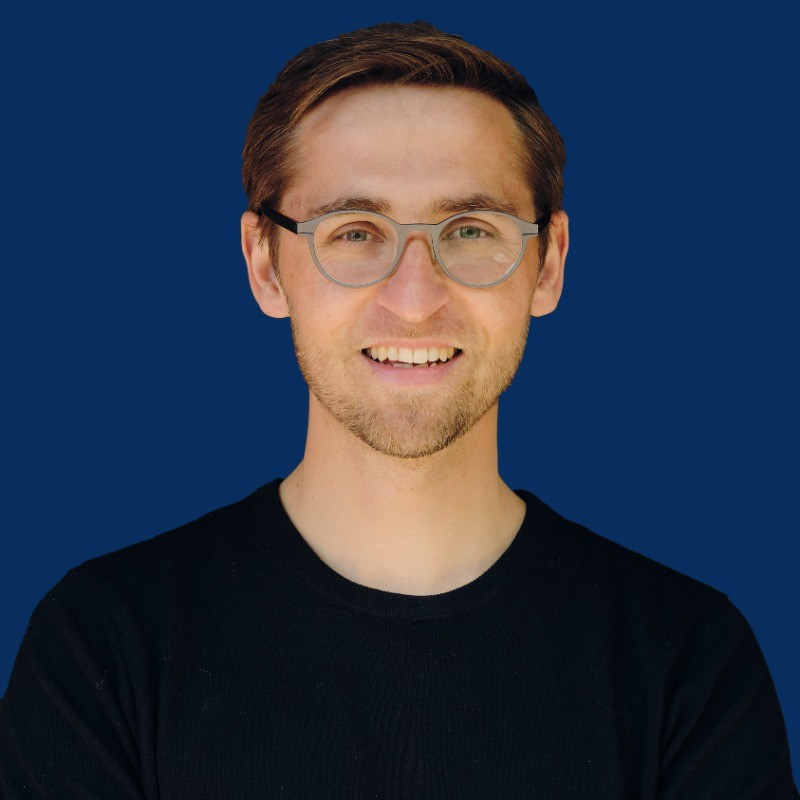
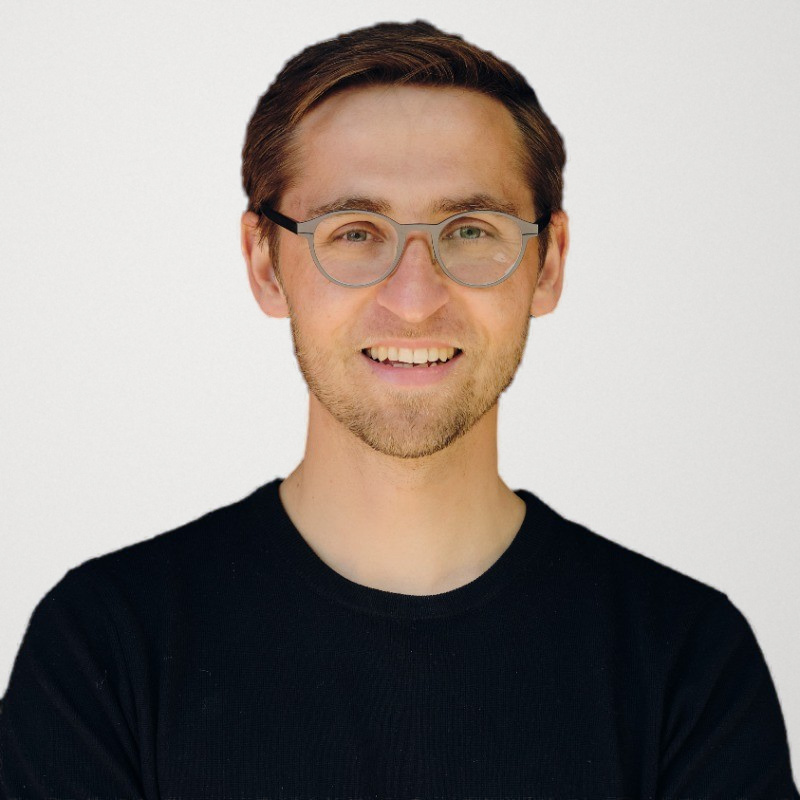
Footer ohne Einschenken unter 1020 px und ohne Hover; Jonathan mit hellem Grund
- Unter 1020 px und überall ohne Hover (auch iPad quer) keine Frage, keine Kaffee/Tee-Toolbar, der Button steht voll
  in Orange. Die Animation braucht einen Zeiger, der schwebt.
- Jonathan Handt: sauber freigestellte Fassung mit hellem Grund (aus dem Freisteller-Tab).

diff --git a/src/styles/site.css b/src/styles/site.css
@@ -428,6 +428,15 @@
      is no longer set apart from the pitch, 04.11.), the button stands apart at xl. */
   .contact .intro { margin-top: var(--space-xs); }
   .contact .actions { margin-top: var(--space-xl); }
+  /* No pour where it cannot be played (12.11.): below the 1020 anchor (tablet, phone) and wherever the pointer does not
+     hover (an iPad held across is wider). No question, no toolbar, the button is served full in the primary's orange.
+     !important against the clip JS writes inline while a drink is poured, should the window narrow mid-pour. */
+  @media (max-width: 1019px), (hover: none) {
+    .contact .ask, .contact .drink { display: none; }
+    .brew .cof { clip-path: none !important; mask-image: none !important; }
+    .contact[data-drink], .contact[data-drink] * { cursor: auto; }
+    .brew, .brew * { cursor: pointer; }
+  }
   /* Coffee or tea, a small tool palette in the navbar's glass (see .glass), marked like the navbar: hover turns a
      tool black and draws a thin ink rule from the middle, the chosen one is black with a short orange bar and the
      other one goes grey. Before a pick both stay black, nothing is greyed out yet. */

diff --git a/src/scripts/site.js b/src/scripts/site.js
@@ -1052,6 +1052,7 @@ function syncDrink() {
 }
 syncDrink();
 
+const NO_POUR = matchMedia("(max-width: 1019px), (hover: none)");
 const Cup = {
   build() {
     this.nodes?.forEach((n) => n.remove());
@@ -1117,8 +1118,10 @@ const Cup = {
     st.clipPath = `polygon(0% 100%, 0% ${y(0)}, ${pts.join(", ")}, 100% ${y(N - 1)}, 100% 100%)`;
   },
   update(dt, t) {
-    // No drink picked yet: the system's pointer, the button rests.
+    // No drink picked yet: the system's pointer, the button rests. No pour below the 1020 anchor or without hover (12.11.,
+    // see .contact in the CSS): a pot or bag still out from a wider window goes.
     if (!DRINK) return;
+    if (NO_POUR.matches) { this.nodes.forEach((n) => n.setAttribute("opacity", 0)); return; }
     const hit = P.inside ? document.elementFromPoint(P.x, P.y) : null;
     const onSwitch = !!(hit && hit.closest(".drink"));
     const on = !!(hit && hit.closest("#contact")) && !onSwitch && this.fill < 1, onBtn = !touch && !!(hit && hit.closest("#chat"));
